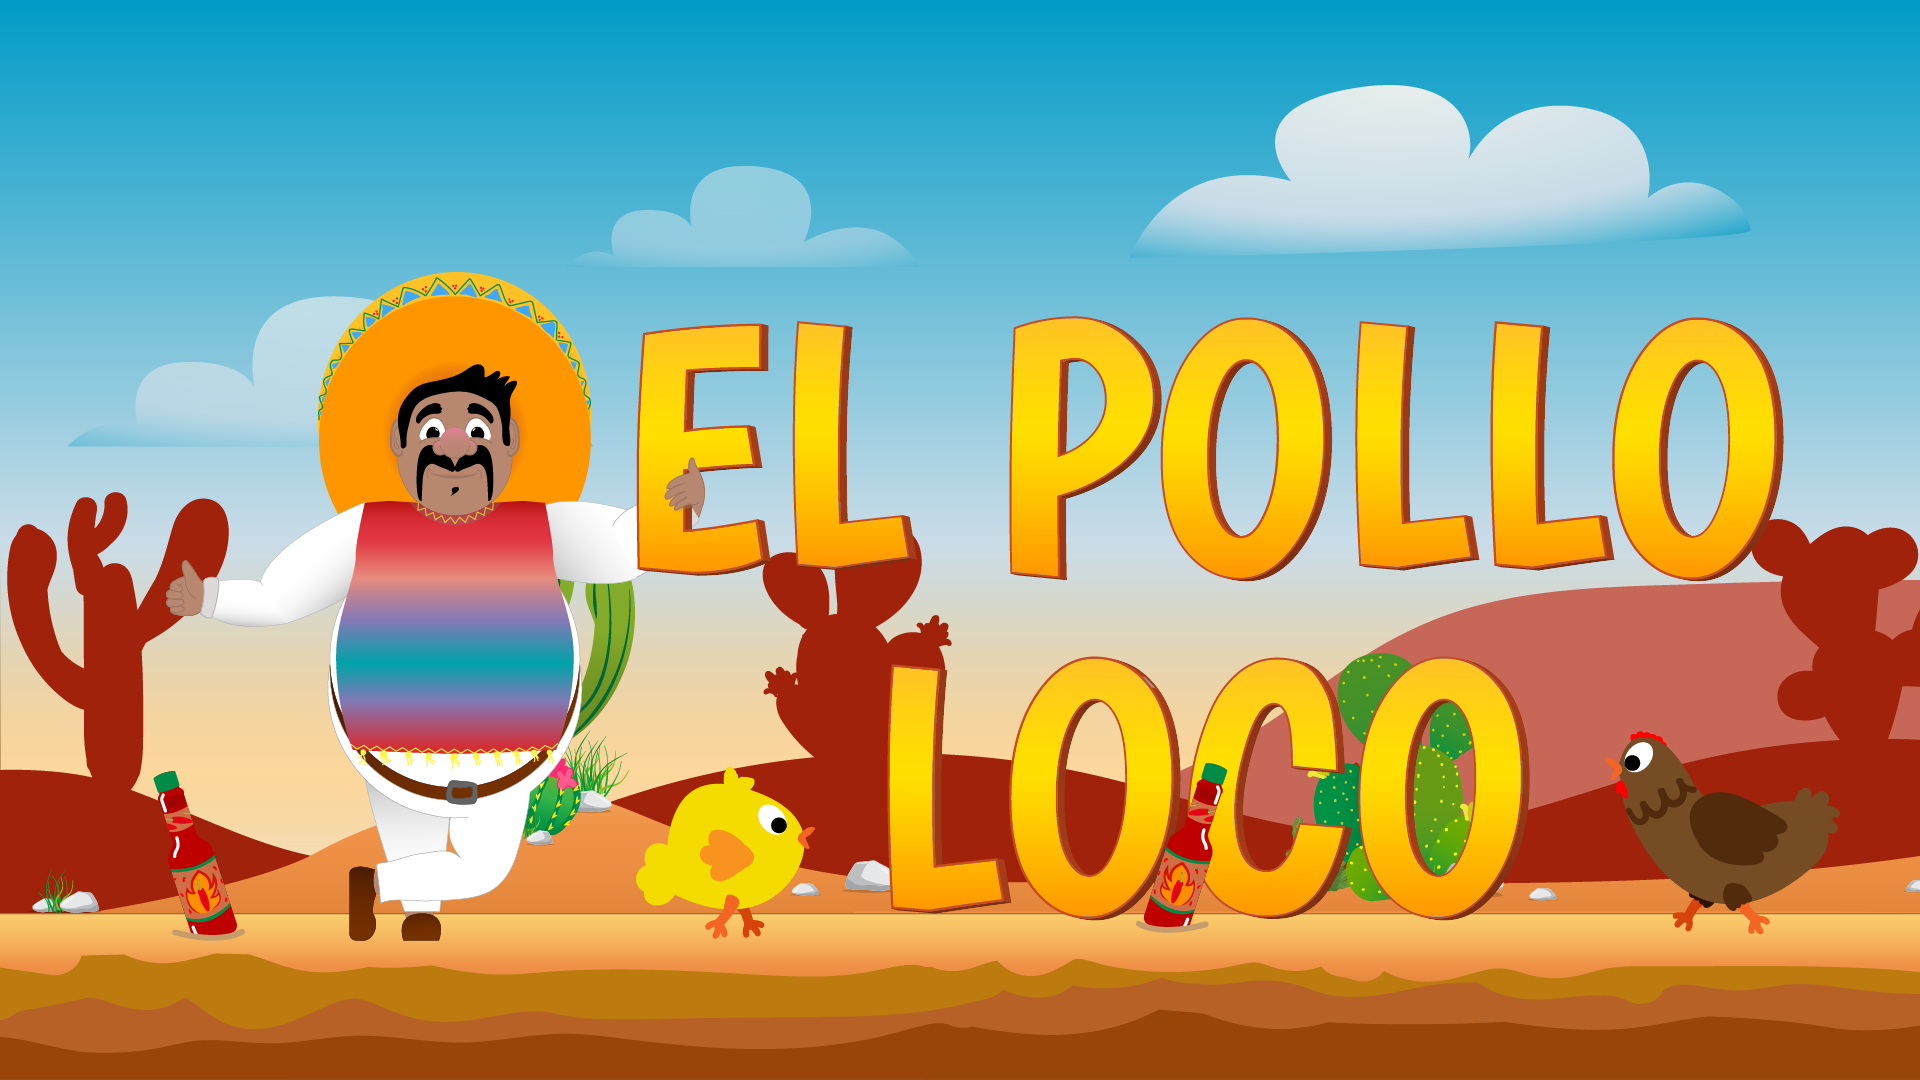
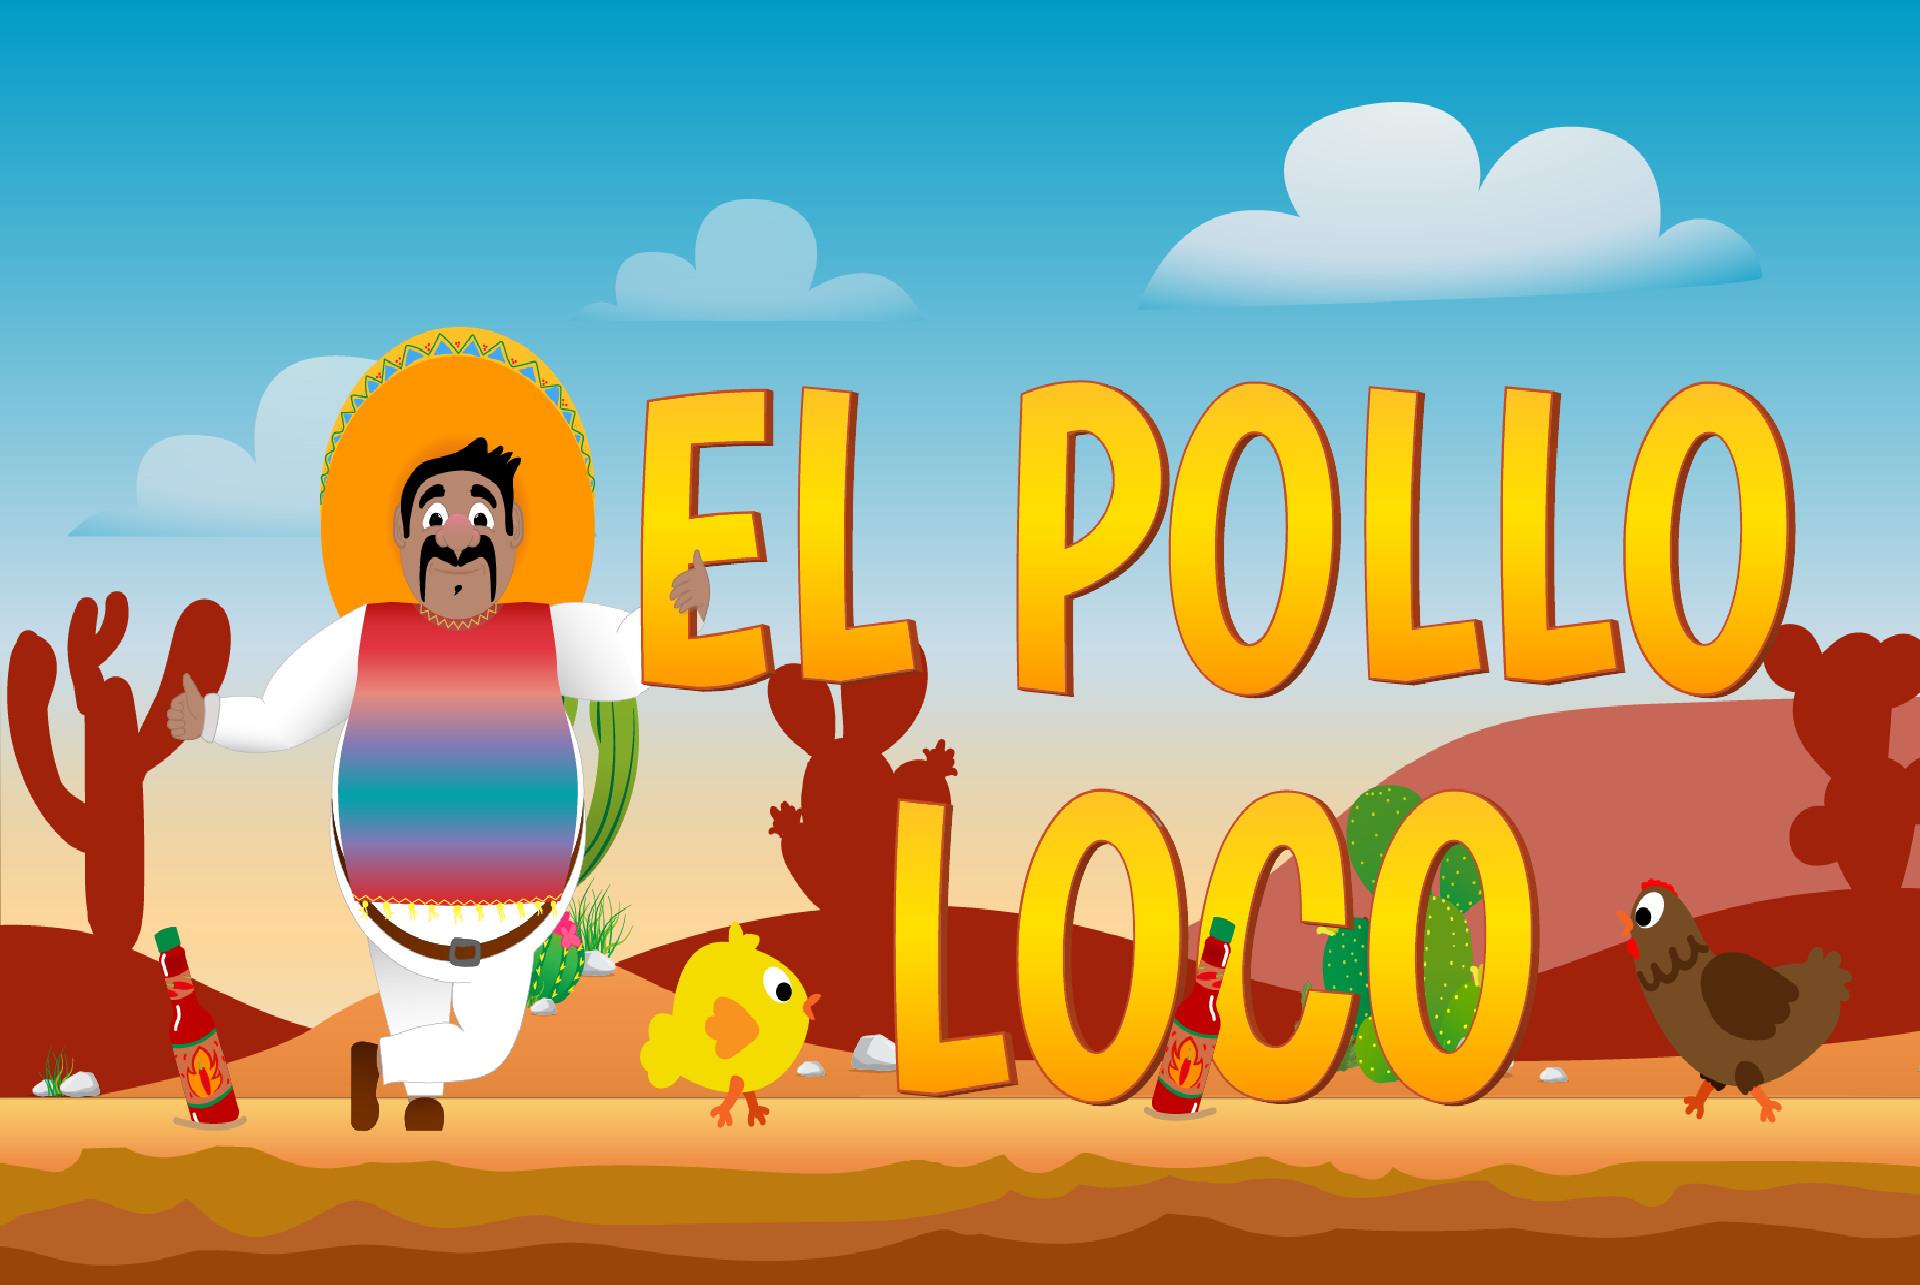
feat: create Startscreen, change background

diff --git a/style.css b/style.css
@@ -6,48 +6,142 @@
     scroll-behavior: smooth;
     list-style: none;
     box-sizing: border-box;
+    position: relative;
 }
 html{
     font-size: 10px;
+}
+.d-flex{
+    display: flex;
+}
+.d-none{
+    display: none;
 }
 /* #endregion */
 
 /* #region FONTS */
 @font-face {
-    font-family: 'Rye-Regular';
+    font-family: 'Rye';
     src: url('./assets/fonts/Rye-Regular.ttf');
 }
 @font-face {
-    font-family: 'Smokum-Regular';
+    font-family: 'Smokum';
     src: url('./assets/fonts/Smokum-Regular.ttf');
 }
 h1{
-    font-family: 'Rye-Regular','sans-serif';
+    font-family: 'Rye','sans-serif';
     font-size: min(60px, 64px);
     letter-spacing: 6px;
-    color: #ffbb00;
-    -webkit-text-stroke-color: black;
-    -webkit-text-stroke-width: 0.50px;
+    color: rgb(255, 166, 0);
+    text-shadow: 5px 2px 8px rgba(0,0,0,0.9);
+    /* -webkit-text-stroke-color: black;
+    -webkit-text-stroke-width: 0.005px; */
     text-align: center;
-
 }
 /* #endregion */
 
 /* #region BODY */
 body{
     font-size: min(16px, 18px);
-    font-family: 'Smokum-Regular','sans-serif';
-    /* background: url('./assets/icons/road-8893160_1920.jpg'); */
-    background: url('./assets/icons/desert-6814275_1920.png');
+    font-family: 'Smokum','sans-serif';
+    background: url('./assets/icons/Comic2.png');
+    /* background: url('./assets/icons/chicken-2584740_1920.jpg'); */
+    backdrop-filter: saturate(30%);
     /* background: url('./assets/icons/cactus-9085905_1920.jpg'); */
     background-size: cover;
-    display: flex;
-    flex-direction: column;
-    align-items: center;
-    justify-content: center;
-    height: 100dvh;
+    
+    main{
+        display: flex;
+        flex-direction: column;
+        align-items: center;
+        justify-content: center;
+        height: auto;
+        min-height: calc(100dvh - 3dvh);
+        #wrapper{
+            width: 720px;
+            height: 480px;
+            canvas{
+                background-color: black;
+                display: block;
+            }
+            #startscreen{
+                background-image: url('./assets/img/9_intro_outro_screens/start/startscreen_2.png');
+                width: 100%;
+                height: 100%;
+                position: absolute;
+                top: 0;
+                left: 0;
+                background-size: cover;
+                justify-content: center;
+                align-items: center;
+                flex-direction: column;
+                button{
+                    background: transparent;
+                    border: 0;
+                    cursor: pointer;
+                    img{
+                        width: 120px;
+                    }
+                }
+                #audio-btn{
+                    position: absolute;
+                    top: 10px;
+                    right: 10px;
+                    img{
+                        width: 60px;
+                    }
+                }
+                #btn-explanation{
+                    position: absolute;
+                    bottom: 0;
+                    height: 50px;
+                    width: 100%;
+                    font-size: large;
+                    display: flex;
+                    justify-content: space-around;
+                    align-items: center;
+                    div{
+                        display: flex;
+                        align-items: center;
+                        img{
+                            height: 45px;
+                        }
+                    }
+                }
+            }
+        }
+    }
+    
+    
+    footer{
+        display: flex;
+        justify-content: center;
+        align-items: center;
+        background: white;
+        height: 3dvh;
+        img{
+            height: 100%;
+        }
+    }
 }
-canvas{
-    background-color: black;
-    display: block;
+
+
+
+
+@media only screen and (max-width: 720px){
+    h1{
+        display: none;
+    }
+    #wrapper{
+        canvas{
+            width: 100%;
+        }
+    }
+}
+@media only screen and (max-height: 480px){
+    #wrapper{
+        canvas{
+            height: 100dvh;
+        }
+    }
 }

diff --git a/js/game.js b/js/game.js
@@ -1,18 +1,48 @@
 import { Keyboard } from "../models/keyboard.class.js";
 import { World } from "../models/world.class.js";
-
+// #region Global variables;
 let canvas;
 let world;
 let keyboard = new Keyboard();
+let audioRef = false;
+// #endregion
 
+// #region INIT
 function init(){
     canvas = document.getElementById('canvas');
     world = new World(canvas, keyboard);
     
     console.log("My character is ", world.character);
+    getFromLocalStorage();
 }
-init();
+// #endregion
 
+// #region Startscreen & Local storage
+function startGame(){
+    let startscreenRef = document.getElementById("startscreen");
+    startscreenRef.classList.add('d-none');
+    init();
+}
+
+function getFromLocalStorage(){
+    audioRef = JSON.parse(localStorage.getItem("soundSettings"));
+}
+
+function saveSoundSetting(){
+    localStorage.setItem("soundSettings",JSON.stringify(audioRef));
+}
+
+function toggleMute(){
+    const audioBtnRef = document.getElementById("audio-btn-img");
+    audioRef = !audioRef;
+    audioBtnRef.src = !audioRef ? "./assets/icons/mute.png" : "./assets/icons/soundon.png";
+    saveSoundSetting();
+}
+window.startGame = startGame;
+window.toggleMute = toggleMute;
+// #endregion
+
+// #region Keyboard Settings
 window.addEventListener('keydown', (e) => {
     if(e.key == 'ArrowRight'){
         keyboard.RIGHT = true;
@@ -26,7 +56,8 @@ window.addEventListener('keydown', (e) => {
     if(e.key == 'd'){
         keyboard.D = true;
     }
-});
+})
+
 window.addEventListener("keyup",(e) => {
     if(e.key == 'ArrowRight'){
         keyboard.RIGHT = false;
@@ -40,4 +71,7 @@ window.addEventListener("keyup",(e) => {
     if(e.key == 'd'){
         keyboard.D = false;
     }
-})
+});
+// #endregion
+
+

diff --git a/impressum.html b/impressum.html
@@ -1,0 +1,17 @@
+<h1>Impressum</h1>
+<p>Angaben gemäß § 5 DDG</p>
+<p>Felicia Tretter<br> 
+Wuppertaler Straße<br> 
+51067 Köln<br> 
+</p><p> <strong>Vertreten durch: </strong><br>
+Felicia Tretter<br>
+</p><p><strong>Kontakt:</strong> <br>
+Telefon: 0176-62678239<br>
+E-Mail: <a href='mailto:pulomas10@hotmail.com'>pulomas10@hotmail.com</a></br></p>
+<br><br><strong>Datenschutz</strong><br><br>
+Die Nutzung unserer Webseite ist in der Regel ohne Angabe personenbezogener Daten möglich. Soweit auf unseren Seiten personenbezogene Daten (beispielsweise Name, Anschrift oder eMail-Adressen) erhoben werden, erfolgt dies, soweit möglich, stets auf freiwilliger Basis. Diese Daten werden ohne Ihre ausdrückliche Zustimmung nicht an Dritte weitergegeben. <br>
+Wir weisen darauf hin, dass die Datenübertragung im Internet (z.B. bei der Kommunikation per E-Mail) Sicherheitslücken aufweisen kann. Ein lückenloser Schutz der Daten vor dem Zugriff durch Dritte ist nicht möglich. <br>
+Der Nutzung von im Rahmen der Impressumspflicht veröffentlichten Kontaktdaten durch Dritte zur Übersendung von nicht ausdrücklich angeforderter Werbung und Informationsmaterialien wird hiermit ausdrücklich widersprochen. Die Betreiber der Seiten behalten sich ausdrücklich rechtliche Schritte im Falle der unverlangten Zusendung von Werbeinformationen, etwa durch Spam-Mails, vor.<br>
+</p><br> 
+Erstellt mit <a href="https://impressum-generator.de" rel="dofollow">Impressum-Generator.de</a>, dem Tool für Impressum und <a href="https://impressum-generator.de/datenschutz-generator" rel="dofollow">Datenschutz-Erklärung</a>. Nach einer Vorlage der <a href="https://www.kanzlei-hasselbach.de/" rel="dofollow">Kanzlei Hasselbach</a>.
+ 

diff --git a/index.html b/index.html
@@ -9,10 +9,26 @@
     <script type="module" src="./js/game.js" defer></script>
 </head>
 <body>
-    <h1>El Pollo Loco</h1>
-    <div id="fullscreen">
-        <canvas id="canvas" width="720px" height="480px">
-        </canvas>
-    </div>
+    <main>
+        <h1>El Pollo Loco</h1>
+        <div id="wrapper">
+            <canvas id="canvas" width="720px" height="480px">
+            </canvas>
+            <div id="startscreen" class="d-flex">
+                <button id="audio-btn" onclick="toggleMute()"><img src="./assets/icons/mute.png" alt="mute button" id="audio-btn-img"></button>
+                <button id="play-btn" onclick="startGame()"><img src="./assets/icons/play4.png" alt="Play button"></button>
+                <div id="btn-explanation">
+                    <div><img src="./assets/icons/left.png" alt="keyboard left arrow">: Move left</img></div>
+                    <div><img src="./assets/icons/right.png" alt="keyboard right arrow">: Move right</img></div>
+                    <div><img src="./assets/icons/SPACE.png" alt="keyboard space">: Jump </img></div>
+                    <div><img src="./assets/icons/D.png" alt="keyboard D">: Throw bottle </img></div>
+                </div>
+            </div>
+        </div>
+    
+    </main>
+    <footer>
+         © 2025. Design by <img src="./assets/icons/Felicious.png" alt="felicious logo"> | <a href="impressum.html">Impressum</a>
+    </footer>
 </body>
 </html>
